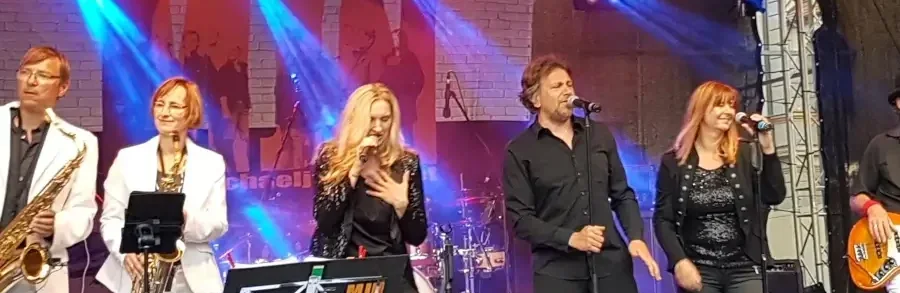
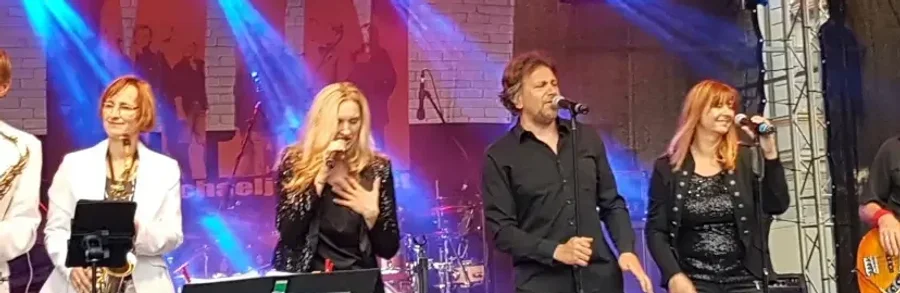
fix(bandfinder): Stadtfest-Kachel neu zugeschnitten, Sanity-Kacheln in 2x
Stadt-/Buergerfest-Motiv aus dem Original neu geschnitten -- Ausschnitt
nach links verschoben, damit die Personen im Kachelbild etwas weiter
rechts stehen (Feedback aus der Vercel-Vorschau zu PR #113). Gleiches
Ausgabeformat (900x293) und derselbe vertikale Anker wie zuvor, nur die
Originaldatei im Backup-Ordner blieb unveraendert.

Sanity-Abfrage fuer Hochzeit/Festzelt von 360x118 auf 720x236 (2x)
angehoben fuer schaerfere Darstellung auf Retina-Bildschirmen -- die
Kachel selbst bleibt in derselben CSS-Groesse.

diff --git a/lib/bands/bandFinderThemeImages.ts b/lib/bands/bandFinderThemeImages.ts
@@ -62,13 +62,16 @@ const GENERIC_FALLBACK: BandFinderThemeImage = {
   alt: '',
 }
 
-// Zielverhaeltnis der Variante-1c-Kachel (~356x116 im Design-Mockup).
-// Sanitys eigener hotspot-bewusster Zuschnitt (crop+hotspot sind fuer
-// hochzeit/festzelt in Sanity gepflegt) uebernimmt damit direkt die
-// passende Bildausrichtung -- kein zusaetzliches CSS object-position
-// noetig (siehe BandFinderThemeImage.objectPosition-Kommentar oben).
-const SANITY_TILE_WIDTH = 360
-const SANITY_TILE_HEIGHT = 118
+// Zielverhaeltnis der Variante-1c-Kachel (~356x116 im Design-Mockup),
+// hier bei doppelter Aufloesung angefordert (2x fuer Retina-Bildschirme
+// -- die Kachel selbst bleibt in derselben CSS-Groesse, next/image
+// skaliert das groessere Bild lediglich herunter). Sanitys eigener
+// hotspot-bewusster Zuschnitt (crop+hotspot sind fuer hochzeit/festzelt
+// in Sanity gepflegt) uebernimmt damit direkt die passende
+// Bildausrichtung -- kein zusaetzliches CSS object-position noetig
+// (siehe BandFinderThemeImage.objectPosition-Kommentar oben).
+const SANITY_TILE_WIDTH = 720
+const SANITY_TILE_HEIGHT = 236
 
 async function resolveSanityThemeImage(slug: string): Promise<BandFinderThemeImage> {
   const hero = await fetchEventCategoryHero(slug)
